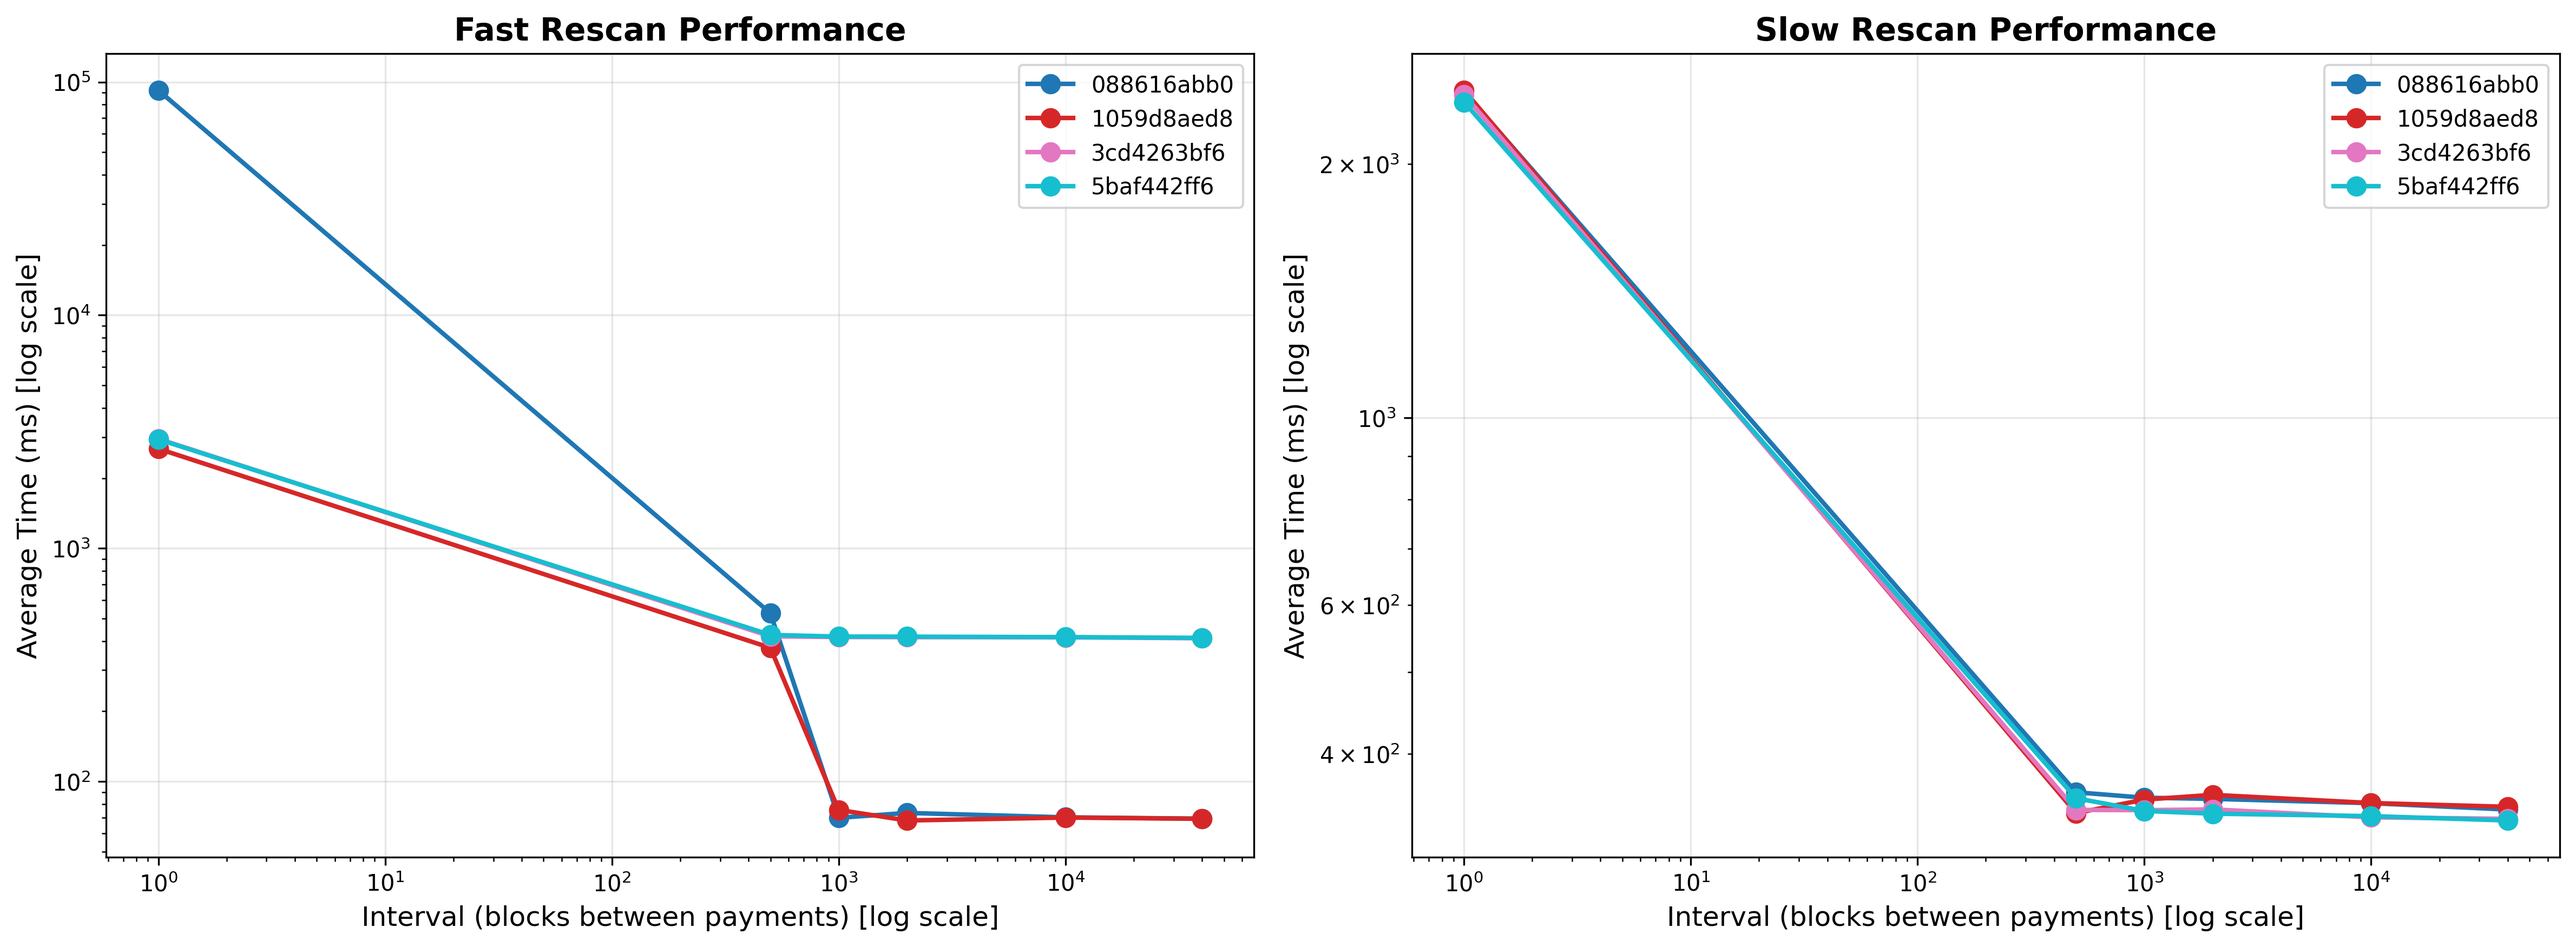
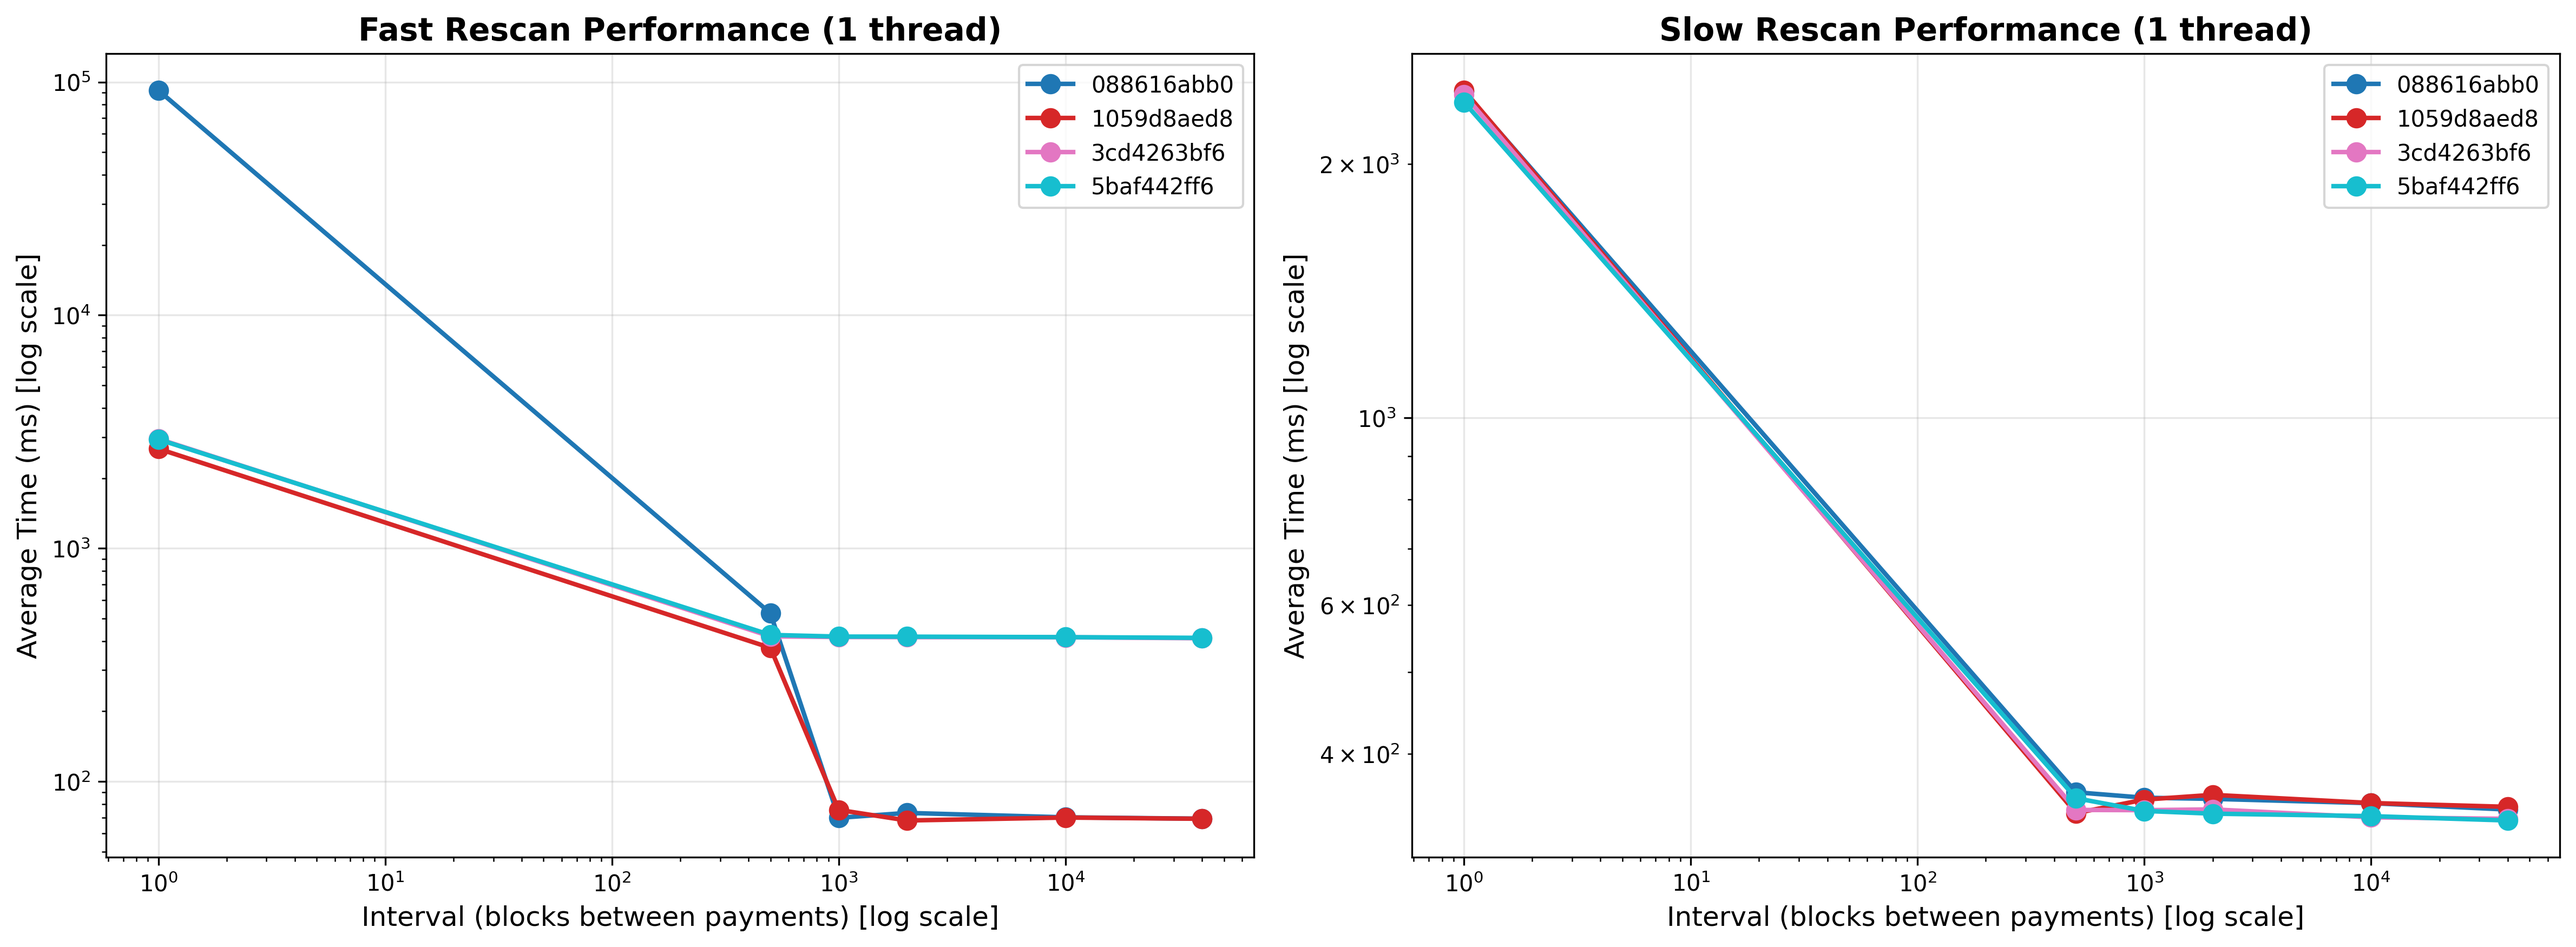
Plot graphs for each thread count

Changed region(s): [[0.6529, 0.0, 0.9017, 0.0617], [0.1244, 0.0, 0.4042, 0.0617]]

diff --git a/plot_benchmark_results.py b/plot_benchmark_results.py
@@ -21,59 +21,98 @@ for csv_file in csv_files:
     commit_hash = csv_file.replace(".csv", "")
     df = pd.read_csv(csv_file)
     df['Commit'] = commit_hash
+    # If Threads column doesn't exist, assume 1 thread (backward compatibility)
+    if 'Threads' not in df.columns:
+        df['Threads'] = 1
     all_data.append(df)
 
 combined_df = pd.concat(all_data, ignore_index=True)
 
-# Separate Fast and Slow types
-fast_df = combined_df[combined_df['Type'] == 'Fast']
-slow_df = combined_df[combined_df['Type'] == 'Slow']
-
-# Get unique commits and intervals
+# Get unique values
 commits = combined_df['Commit'].unique()
+threads = sorted(combined_df['Threads'].unique())
 intervals = sorted(combined_df['Interval'].unique())
 
 # Set up colors for each commit
 colors = plt.cm.tab10(np.linspace(0, 1, len(commits)))
 commit_colors = {commit: colors[i] for i, commit in enumerate(commits)}
 
-# Create figure with two subplots
-fig, (ax1, ax2) = plt.subplots(1, 2, figsize=(16, 6))
+# Create figure with dynamic subplots based on number of thread counts
+num_threads = len(threads)
+fig, axes = plt.subplots(num_threads, 2, figsize=(16, 6 * num_threads))
 
-# Plot Fast type
-for commit in commits:
-    commit_data = fast_df[fast_df['Commit'] == commit]
-    commit_data = commit_data.sort_values('Interval')
-    # Replace interval 0 with 1 for log scale plotting
-    x_values = commit_data['Interval'].replace(0, 1)
-    ax1.plot(x_values, commit_data['Avg Time (us)'] / 1000,
-             marker='o', label=commit, color=commit_colors[commit], linewidth=2, markersize=8)
+# Handle case where there's only one thread count (axes won't be 2D array)
+if num_threads == 1:
+    axes = axes.reshape(1, -1)
 
-ax1.set_xlabel('Interval (blocks between payments) [log scale]', fontsize=12)
-ax1.set_ylabel('Average Time (ms) [log scale]', fontsize=12)
-ax1.set_title('Fast Rescan Performance', fontsize=14, fontweight='bold')
-ax1.legend()
-ax1.grid(True, alpha=0.3)
-ax1.set_xscale('log')
-ax1.set_yscale('log')
+# Plot for each thread count
+for thread_idx, thread_count in enumerate(threads):
+    # Filter data for this thread count
+    thread_df = combined_df[combined_df['Threads'] == thread_count]
+    fast_df = thread_df[thread_df['Type'] == 'Fast']
+    slow_df = thread_df[thread_df['Type'] == 'Slow']
 
-# Plot Slow type
-for commit in commits:
-    commit_data = slow_df[slow_df['Commit'] == commit]
-    commit_data = commit_data.sort_values('Interval')
-    # Replace interval 0 with 1 for log scale plotting
-    x_values = commit_data['Interval'].replace(0, 1)
-    ax2.plot(x_values, commit_data['Avg Time (us)'] / 1000,
-             marker='o', label=commit, color=commit_colors[commit], linewidth=2, markersize=8)
+    ax_fast = axes[thread_idx, 0]
+    ax_slow = axes[thread_idx, 1]
 
-ax2.set_xlabel('Interval (blocks between payments) [log scale]', fontsize=12)
-ax2.set_ylabel('Average Time (ms) [log scale]', fontsize=12)
-ax2.set_title('Slow Rescan Performance', fontsize=14, fontweight='bold')
-ax2.legend()
-ax2.grid(True, alpha=0.3)
-ax2.set_xscale('log')
-ax2.set_yscale('log')
+    # Plot Fast type
+    for commit in commits:
+        commit_data = fast_df[fast_df['Commit'] == commit]
+        if len(commit_data) > 0:
+            commit_data = commit_data.sort_values('Interval')
+            # Replace interval 0 with 1 for log scale plotting
+            x_values = commit_data['Interval'].replace(0, 1)
+            ax_fast.plot(x_values, commit_data['Avg Time (us)'] / 1000,
+                        marker='o', label=commit, color=commit_colors[commit],
+                        linewidth=2, markersize=8)
+
+    ax_fast.set_xlabel('Interval (blocks between payments) [log scale]', fontsize=12)
+    ax_fast.set_ylabel('Average Time (ms) [log scale]', fontsize=12)
+    ax_fast.set_title(f'Fast Rescan Performance ({thread_count} thread{"s" if thread_count != 1 else ""})',
+                     fontsize=14, fontweight='bold')
+    ax_fast.legend()
+    ax_fast.grid(True, alpha=0.3)
+    ax_fast.set_xscale('log')
+    ax_fast.set_yscale('log')
+
+    # Plot Slow type
+    for commit in commits:
+        commit_data = slow_df[slow_df['Commit'] == commit]
+        if len(commit_data) > 0:
+            commit_data = commit_data.sort_values('Interval')
+            # Replace interval 0 with 1 for log scale plotting
+            x_values = commit_data['Interval'].replace(0, 1)
+            ax_slow.plot(x_values, commit_data['Avg Time (us)'] / 1000,
+                        marker='o', label=commit, color=commit_colors[commit],
+                        linewidth=2, markersize=8)
+
+    ax_slow.set_xlabel('Interval (blocks between payments) [log scale]', fontsize=12)
+    ax_slow.set_ylabel('Average Time (ms) [log scale]', fontsize=12)
+    ax_slow.set_title(f'Slow Rescan Performance ({thread_count} thread{"s" if thread_count != 1 else ""})',
+                     fontsize=14, fontweight='bold')
+    ax_slow.legend()
+    ax_slow.grid(True, alpha=0.3)
+    ax_slow.set_xscale('log')
+    ax_slow.set_yscale('log')
 
 plt.tight_layout()
 plt.savefig('benchmark_comparison.png', dpi=300, bbox_inches='tight')
 print("Graph saved as 'benchmark_comparison.png'")
+
+# Print summary statistics
+print("\n=== Summary Statistics ===")
+for commit in commits:
+    print(f"\nCommit: {commit}")
+    for thread_count in threads:
+        commit_thread_df = combined_df[(combined_df['Commit'] == commit) &
+                                        (combined_df['Threads'] == thread_count)]
+        commit_fast = commit_thread_df[commit_thread_df['Type'] == 'Fast']
+        commit_slow = commit_thread_df[commit_thread_df['Type'] == 'Slow']
+
+        if len(commit_fast) > 0 and len(commit_slow) > 0:
+            print(f"  {thread_count} thread{'s' if thread_count != 1 else ''}:")
+            print(f"    Fast - Avg time: {commit_fast['Avg Time (us)'].mean() / 1000:.2f} ms")
+            print(f"    Slow - Avg time: {commit_slow['Avg Time (us)'].mean() / 1000:.2f} ms")
+            print(f"    Speedup: {commit_slow['Avg Time (us)'].mean() / commit_fast['Avg Time (us)'].mean():.2f}x")
+
+plt.show()
